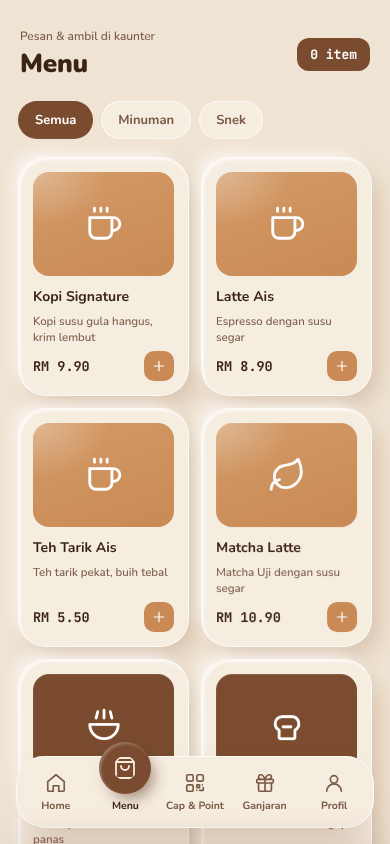
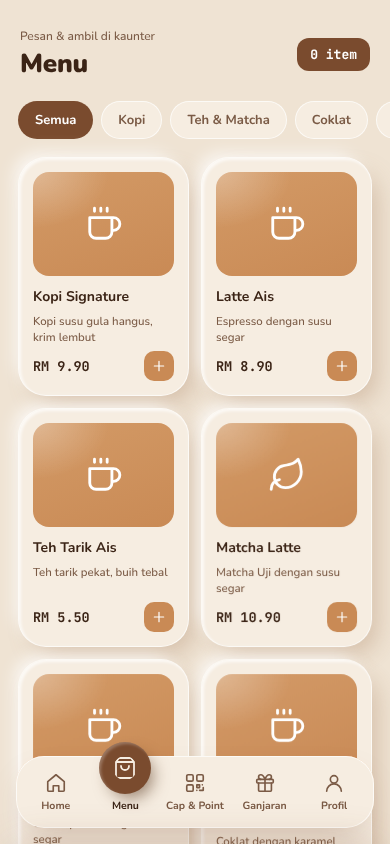
Promo Carousel: category-rail Menu with scroll-spy, search and Pickup/Pre-order toggle
- Promo theme Menu: Pickup | Pre-order segmented toggle, search, outlet row
  with open/closed status and cart badge, sticky vertical category rail with
  icons and active indicator, landscape promo strip, sectioned 2-column grid
  (circle image, small tag, name, price)
- Scroll-spy keeps the active category in sync; tapping a category scrolls
  to its section; search filters all items
- Menu data: Popular section (popular:true), per-item tag, 4 categories and
  9 sample items; PromoBanner.strip() for landscape banners
- CHANGELOG v1.2.1, PANDUAN, gallery image, sw v1.6.1, buyer ZIP v1.2.1

Claude-Session: https://claude.ai/code/session_01C5wWw1jGXc8YxhPN5kL5xc

diff --git a/index.html b/index.html
@@ -691,6 +691,54 @@ a.row{color:inherit;text-decoration:none}
 .pd-ban .sheet-top b{display:none}
 .pd-when{display:inline-flex;gap:6px;align-items:center;font-size:12px;font-weight:700;color:var(--brand);background:var(--surface);padding:6px 10px;border-radius:99px;margin:6px 0 12px}
 .pd-tc{margin:0 0 18px;padding-left:18px;color:var(--ink-2);font-size:12.5px;line-height:1.7}
+/* ---- Menu gaya Promo Carousel ---- */
+.pm{display:none}
+:root[data-theme="promo"] #s-menu{padding:calc(12px + var(--safe-t)) 0 calc(150px + var(--safe-b)) 0}
+:root[data-theme="promo"] #s-menu > .head,:root[data-theme="promo"] #s-menu > .cats,:root[data-theme="promo"] #s-menu > .prod-grid{display:none}
+:root[data-theme="promo"] .pm{display:block}
+.pm-top{display:flex;align-items:center;justify-content:space-between;gap:12px;padding:0 max(16px,env(safe-area-inset-right,0px)) 0 max(16px,env(safe-area-inset-left,0px))}
+.pm-seg{display:inline-flex;padding:4px;border-radius:999px;background:var(--surface)}
+.pm-seg button{height:42px;padding:0 20px;border-radius:999px;font-weight:800;font-size:15px;color:var(--ink-3);transition:background .25s,color .25s}
+.pm-seg button.on{background:var(--brand-deep);color:#fff}
+.pm-search-btn{width:46px;height:46px;border-radius:50%;background:var(--surface);color:var(--brand-deep);display:grid;place-items:center}
+.pm-searchbox{display:flex;align-items:center;gap:8px;margin:12px max(16px,env(safe-area-inset-right,0px)) 0 max(16px,env(safe-area-inset-left,0px));padding:0 6px 0 14px;height:46px;border-radius:14px;background:var(--surface);color:var(--ink-2)}
+.pm-searchbox[hidden],.pm-cart i[hidden]{display:none}
+.pm-searchbox input::-webkit-search-cancel-button{-webkit-appearance:none}
+.pm-searchbox input{flex:1;min-width:0;border:0;background:transparent;font:inherit;font-size:16px;color:var(--ink);outline:none}
+.pm-searchbox button{width:36px;height:36px;border-radius:10px;display:grid;place-items:center}
+.pm-outlet{display:flex;align-items:center;gap:10px;margin:14px 0 0;padding:12px max(16px,env(safe-area-inset-right,0px)) 12px max(16px,env(safe-area-inset-left,0px));background:var(--surface);color:var(--brand-deep)}
+.pm-outlet > div{flex:1;min-width:0}
+.pm-outlet b{display:block;font-size:15px;font-weight:800}
+.pm-outlet span{font-size:11.5px;color:var(--ink-2)}
+.pm-outlet span.open::before{content:"";display:inline-block;width:7px;height:7px;border-radius:50%;background:var(--ok);margin-right:6px;vertical-align:1px}
+.pm-cart{position:relative;width:42px;height:42px;border-radius:12px;background:#fff;display:grid;place-items:center;color:var(--brand-deep)}
+.pm-cart i{position:absolute;right:-5px;top:-5px;min-width:18px;height:18px;padding:0 5px;border-radius:99px;background:var(--brand);color:#fff;font-size:10.5px;font-weight:800;font-style:normal;display:grid;place-items:center}
+.pm-body{display:grid;grid-template-columns:92px minmax(0,1fr);align-items:start}
+.pm-cats{position:sticky;top:-12px;align-self:start;height:calc(100dvh - var(--safe-t) - 80px - var(--safe-b));overflow-y:auto;scrollbar-width:none;background:var(--surface);padding-bottom:40px}
+.pm-cats::-webkit-scrollbar{display:none}
+.pm-cat{position:relative;display:flex;flex-direction:column;align-items:center;gap:6px;width:100%;padding:16px 6px;font-size:11.5px;font-weight:600;color:var(--ink);text-align:center;line-height:1.25;transition:background .2s,color .2s}
+.pm-cat .ico{width:44px;height:44px;border-radius:14px;display:grid;place-items:center;color:var(--ink-2);transition:transform .25s cubic-bezier(.3,1.4,.6,1),color .2s}
+.pm-cat .ico svg{width:26px;height:26px}
+.pm-cat.on{background:var(--bg);color:var(--brand-deep);font-weight:800}
+.pm-cat.on .ico{color:var(--brand);transform:scale(1.08)}
+.pm-cat::before{content:"";position:absolute;left:0;top:14px;bottom:14px;width:4px;border-radius:0 4px 4px 0;background:var(--brand-deep);transform:scaleY(0);transition:transform .3s cubic-bezier(.3,1.4,.6,1)}
+.pm-cat.on::before{transform:scaleY(1)}
+.pm-list{min-width:0;padding:0 max(12px,env(safe-area-inset-right,0px)) 0 12px}
+.pm-strip{display:block;width:calc(100% + 12px);margin:0 0 6px -12px;cursor:pointer}
+.pm-sec{padding-top:18px;scroll-margin-top:0}
+.pm-sec h3{display:flex;align-items:center;gap:10px;margin:0 0 14px 2px;font-size:17px;font-weight:800;color:var(--brand-deep)}
+.pm-sec h3::before{content:"";width:4px;height:22px;border-radius:2px;background:var(--brand-deep)}
+.pm-grid{display:grid;grid-template-columns:1fr 1fr;gap:22px 10px}
+.pm-item{display:flex;flex-direction:column;align-items:center;text-align:center;gap:4px;padding:0;transition:transform .18s}
+.pm-item:active{transform:scale(.96)}
+.pm-pic{position:relative;width:100%;max-width:128px;aspect-ratio:1;border-radius:50%;background:#EEF0F6;display:grid;place-items:center;margin-bottom:8px;overflow:visible;color:var(--brand-deep)}
+.pm-pic svg.art{width:62%;height:auto;margin-top:-14%;filter:drop-shadow(0 8px 8px rgba(0,0,0,.18))}
+.pm-pic > svg.i{width:44%;height:44%}
+.pm-item small{font-size:10.5px;letter-spacing:.06em;color:#B08A5E;font-weight:600}
+.pm-item b{font-size:13.5px;line-height:1.25;color:var(--ink-2);font-weight:800;display:-webkit-box;-webkit-line-clamp:2;-webkit-box-orient:vertical;overflow:hidden;min-height:2.5em}
+.pm-item .pr{font-size:14px;color:var(--ink);font-weight:600}
+.pm-empty{padding:40px 10px;text-align:center;color:var(--ink-3);font-size:13px}
+@media (prefers-reduced-motion:reduce){.pm-cat::before,.pm-cat .ico{transition:none}}
 /* ---- prestasi: tema pejal tidak perlukan kesan kaca ---- */
 :root[data-theme="sage"] .tile,:root[data-theme="grid"] .tile,:root[data-theme="clay"] .tile,:root[data-theme="indigo"] .tile,:root[data-theme="matcha"] .tile,
 :root[data-theme="sage"] .nav,:root[data-theme="grid"] .nav,:root[data-theme="indigo"] .nav,:root[data-theme="matcha"] .nav{backdrop-filter:none;-webkit-backdrop-filter:none}
@@ -876,6 +924,21 @@ a.row{color:inherit;text-decoration:none}
       <header class="head"><div><small>Pesan &amp; ambil di kaunter</small><h1>Menu</h1></div><button class="pill-dark" data-action="openCart" id="m-cartpill">0 item</button></header>
       <div class="cats" id="m-cats"></div>
       <div class="prod-grid" id="m-grid"></div>
+      <!-- Menu gaya Promo Carousel: rel kategori kiri + seksyen 2 lajur -->
+      <div class="pm" id="pm">
+        <div class="pm-top">
+          <div class="pm-seg" role="tablist" aria-label="Cara ambil">
+            <button type="button" id="pmPick" data-pm="pickup" role="tab">Pickup</button><button type="button" id="pmPre" data-pm="pre" role="tab">Pre-order</button>
+          </div>
+          <button type="button" class="pm-search-btn" data-pm="search" aria-label="Cari menu"><svg class="i" data-ic="search"></svg></button>
+        </div>
+        <div class="pm-searchbox" id="pmSearchBox" hidden><svg class="i" data-ic="search"></svg><input id="pmQ" type="search" placeholder="Cari minuman atau snek…" autocomplete="off"><button type="button" data-pm="close" aria-label="Tutup carian"><svg class="i" data-ic="x"></svg></button></div>
+        <div class="pm-outlet"><svg class="i" data-ic="store"></svg><div><b id="pmOutlet">Kafe Demo</b><span id="pmHours">Buka 08:00 – 22:00</span></div><button type="button" class="pm-cart" data-action="openCart" aria-label="Troli"><svg class="i" data-ic="bag"></svg><i id="pmCartN" hidden>0</i></button></div>
+        <div class="pm-body">
+          <nav class="pm-cats" id="pmCats" aria-label="Kategori menu"></nav>
+          <div class="pm-list" id="pmList"></div>
+        </div>
+      </div>
     </section>
 
     <!-- ========== 02 CAP & POINT ========== -->
@@ -1037,6 +1100,10 @@ const IC = {
   back:'<path d="m15 18-6-6 6-6"/>',
   clock:'<circle cx="12" cy="12" r="9"/><path d="M12 7v5l3 2"/>',
   upload:'<path d="M12 15V3M7 8l5-5 5 5M5 21h14"/>',
+  search:'<circle cx="11" cy="11" r="7"/><path d="m21 21-4.3-4.3"/>',
+  store:'<path d="M3 9l1.5-5h15L21 9M3 9v11h18V9M3 9c0 1.7 1.3 3 3 3s3-1.3 3-3c0 1.7 1.3 3 3 3s3-1.3 3-3c0 1.7 1.3 3 3 3s3-1.3 3-3M9 20v-5h6v5"/>',
+  star:'<path d="m12 3 2.7 5.6 6.1.9-4.4 4.3 1 6.1L12 17l-5.5 2.9 1-6.1-4.4-4.3 6.1-.9z"/>',
+  choc:'<rect x="5" y="3" width="14" height="18" rx="2"/><path d="M5 9h14M5 15h14M12 3v18"/>',
   crown:'<path d="m2 7 5 5 5-8 5 8 5-5-2 12H4z"/>',
   palette:'<circle cx="13.5" cy="6.5" r="1.2"/><circle cx="17.5" cy="10.5" r="1.2"/><circle cx="8.5" cy="7.5" r="1.2"/><circle cx="6.5" cy="12.5" r="1.2"/><path d="M12 2a10 10 0 0 0 0 20c1.1 0 2-.9 2-2 0-.5-.2-1-.5-1.3-.3-.4-.5-.8-.5-1.3 0-1.1.9-2 2-2h2.4A5.6 5.6 0 0 0 22 9.8C22 5.5 17.5 2 12 2z"/>',
   bag:'<path d="M6 2 3 6v14a2 2 0 0 0 2 2h14a2 2 0 0 0 2-2V6l-3-4zM3 6h18M16 10a4 4 0 0 1-8 0"/>',
@@ -1405,7 +1472,68 @@ function picHTML(p,i=0){
   if(THEME.art==="drink" && isDrink) return drinkArt(Array.isArray(p.art)?p.art:ART_DEFAULT[i%ART_DEFAULT.length]);
   return icon(p.icon||"cup");
 }
+/* =========================================================
+   MENU GAYA PROMO CAROUSEL — rel kategori kiri, seksyen 2 lajur,
+   kategori aktif ikut skrol, carian, togol Pickup / Pre-order
+   ========================================================= */
+const CAT_ICON={"Popular":"star","Kopi":"cup","Teh & Matcha":"leaf","Coklat":"choc","Snek":"bread","Minuman":"cup","Makanan":"bowl"};
+let pmQuery="", pmSpyLock=0;
+function pmSections(){
+  const items=activeMenu(), out=[];
+  if(pmQuery){
+    const q=pmQuery.toLowerCase(), hit=items.filter(p=>(p.name+" "+(p.desc||"")+" "+(p.tag||"")+" "+(p.cat||"")).toLowerCase().includes(q));
+    return [{id:"cari",name:`Hasil carian "${pmQuery}"`,items:hit}];
+  }
+  const pop=items.filter(p=>p.popular); if(pop.length) out.push({id:"popular",name:"Popular",items:pop});
+  [...new Set(items.map(p=>p.cat||"Lain-lain"))].forEach((c,i)=>out.push({id:"c"+i,name:c,items:items.filter(p=>(p.cat||"Lain-lain")===c)}));
+  return out;
+}
+function renderMenuPromo(){
+  if(window.PromoBanner) PromoBanner.ensureCSS();
+  const secs=pmSections();
+  // togol pickup / pre-order
+  const pre=CO.mode==="slot"&&CO.day>0;
+  $("#pmPick").classList.toggle("on",!pre); $("#pmPre").classList.toggle("on",pre);
+  $("#pmPick").setAttribute("aria-selected",!pre); $("#pmPre").setAttribute("aria-selected",pre);
+  $("#pmOutlet").textContent=CONFIG.brand;
+  const open=asapOpen(); const h=$("#pmHours"); h.className=open?"open":""; h.textContent=`${open?"Dibuka":"Tutup"} · ${SHOP.open||"08:00"} – ${SHOP.close||"22:00"}${pre?" · Pre-order":""}`;
+  const n=$("#pmCartN"); n.hidden=!cart.length; n.textContent=cart.length;
+  // rel kategori
+  $("#pmCats").innerHTML=secs.map((s,i)=>`<button type="button" class="pm-cat ${i===0?"on":""}" data-pmcat="${s.id}"><span class="ico">${icon(CAT_ICON[s.name]||"cup")}</span>${esc(s.name)}</button>`).join("");
+  // banner promosi melintang (promosi aktif pertama)
+  const promo=(typeof visiblePromos==="function"?visiblePromos():[])[0];
+  const strip = promo && window.PromoBanner && !pmQuery ? `<div class="pm-strip" data-pmpromo="0" role="button" aria-label="${esc(promo.title)}">${PromoBanner.strip(promo,{brand:CONFIG.brand})}</div>` : "";
+  let k=0;
+  $("#pmList").innerHTML = strip + secs.map(s=>`<section class="pm-sec" id="pm-${s.id}"><h3>${esc(s.name)}</h3>
+    ${s.items.length?`<div class="pm-grid">${s.items.map(p=>`<button type="button" class="pm-item" data-prod="${p.id}">
+      <span class="pm-pic">${picHTMLAny(p,k++)}</span><small>${esc(p.tag||p.cat||"")}</small><b>${esc(p.name)}</b><span class="pr">${rm2(p.price)}</span></button>`).join("")}</div>`
+      :`<div class="pm-empty">Tiada item sepadan.</div>`}</section>`).join("");
+}
+function picHTMLAny(p,i){ const isDrink=p.art||(p.cat||"")!=="Snek"; return isDrink && p.icon!=="bread" && p.icon!=="bowl" ? drinkArt(Array.isArray(p.art)?p.art:ART_DEFAULT[i%ART_DEFAULT.length]) : icon(p.icon||"cup"); }
+function pmSetCat(id){ $$("#pmCats .pm-cat").forEach(b=>b.classList.toggle("on",b.dataset.pmcat===id)); const on=$(`#pmCats .pm-cat[data-pmcat="${id}"]`); on?.scrollIntoView({block:"nearest"}); }
+$("#s-menu").addEventListener("scroll",()=>{
+  if(THEME.id!=="promo"||Date.now()<pmSpyLock) return;
+  const sc=$("#s-menu"), top=sc.getBoundingClientRect().top+60; let cur=null;
+  $$("#pmList .pm-sec").forEach(s=>{ if(s.getBoundingClientRect().top<=top) cur=s.id.slice(3); });
+  if(!cur){ const f=$("#pmList .pm-sec"); cur=f&&f.id.slice(3); }
+  if(cur) pmSetCat(cur);
+},{passive:true});
+$("#pm").addEventListener("click",e=>{
+  const c=e.target.closest("[data-pmcat]");
+  if(c){ const sec=$(`#pm-${c.dataset.pmcat}`), sc=$("#s-menu"); pmSetCat(c.dataset.pmcat); pmSpyLock=Date.now()+700;
+    if(sec) sc.scrollTo({top:sc.scrollTop+sec.getBoundingClientRect().top-sc.getBoundingClientRect().top-6,behavior:reduceMotion?"auto":"smooth"}); return; }
+  if(e.target.closest("[data-pmpromo]")){ openPromo(0); return; }
+  const b=e.target.closest("[data-pm]"); if(!b) return;
+  const a=b.dataset.pm;
+  if(a==="pickup"){ CO.mode=asapOpen()?"asap":"slot"; CO.day=0; CO.ts=null; renderMenuPromo(); toast("Pickup hari ini"); }
+  if(a==="pre"){ if(!SHOP.preorder){ toast("Pre-order tidak dibuka oleh kedai"); return; } const d=pickupDays(); CO.mode="slot"; CO.day=d.includes(1)?1:(d[0]??0); CO.ts=null; renderMenuPromo(); toast("Pre-order: pilih waktu ambil semasa checkout"); }
+  if(a==="search"){ const bx=$("#pmSearchBox"); bx.hidden=!bx.hidden; if(!bx.hidden) setTimeout(()=>$("#pmQ").focus(),50); else { pmQuery=""; $("#pmQ").value=""; renderMenuPromo(); } }
+  if(a==="close"){ $("#pmSearchBox").hidden=true; pmQuery=""; $("#pmQ").value=""; renderMenuPromo(); }
+});
+$("#pmQ").addEventListener("input",e=>{ pmQuery=e.target.value.trim(); renderMenuPromo(); $("#s-menu").scrollTop=0; });
+
 function renderMenu(){
+  if(THEME.id==="promo"){ renderMenuPromo(); return; }
   const items=activeMenu(), cats=["Semua",...new Set(items.map(p=>p.cat||"Lain-lain"))];
   if(!cats.includes(menuCat)) menuCat="Semua";
   $("#m-cats").innerHTML=cats.map(c=>`<button class="cat ${c===menuCat?"on":""}" data-cat="${esc(c)}">${esc(c)}</button>`).join("");
@@ -1490,6 +1618,7 @@ function renderCartBar(){
   $("#cb-n").textContent=n; $("#cb-total").textContent=rm2(cartTotal());
   $("#cb-earn").textContent=`+${Math.min(n,CONFIG.stampTarget)} cap · +${fmt(n*CONFIG.pointsOnline)} point`;
   $("#m-cartpill").textContent=`${n} item`;
+  const pn=$("#pmCartN"); if(pn){ pn.hidden=!n; pn.textContent=n; }
   void onMenu;
 }
 /* Baris item dengan pecahan harga: harga item + setiap add-on berasingan */

diff --git a/menu.js b/menu.js
@@ -8,35 +8,48 @@
      type:"multi"  → pilih banyak dengan kuantiti.
                      Setiap pilihan ada `max` = had kuantiti untuk SATU item.
                      Kumpulan ada `max` = had jumlah semua pilihan (0 = tiada had).
-   art:[atas, bawah, hiasan] (pilihan) = warna lukisan minuman untuk tema "Sage Curve".
+   art:[atas, bawah, hiasan] (pilihan) = warna lukisan minuman untuk tema "Sage Curve" & "Promo Carousel".
+   tag (pilihan)         = label kecil di atas nama item (Menu gaya Promo Carousel).
+   popular:true          = dipapar dalam kategori "Popular" (Menu gaya Promo Carousel).
      Nak lebih dari had? Pelanggan tambah item yang sama ke troli sekali lagi.
    ========================================================= */
 window.SHOP_MENU = [
-  { id:"sig", name:"Kopi Signature", desc:"Kopi susu gula hangus, krim lembut", price:9.90, cat:"Minuman", icon:"cup", art:["#E6BE8A","#5C3B22","#8A5428"], active:true, groups:[
+  { id:"sig", name:"Kopi Signature", desc:"Kopi susu gula hangus, krim lembut", price:9.90, cat:"Kopi", tag:"KOPI SUSU", popular:true, icon:"cup", art:["#E6BE8A","#5C3B22","#8A5428"], active:true, groups:[
     { id:"size", name:"Saiz", type:"single", required:true, options:[{id:"r",name:"Regular",price:0,active:true},{id:"l",name:"Large",price:2,active:true}] },
     { id:"ice",  name:"Ais",  type:"single", required:true, options:[{id:"n",name:"Ais normal",price:0,active:true},{id:"k",name:"Kurang ais",price:0,active:true},{id:"t",name:"Tiada ais",price:0,active:true}] },
     { id:"top",  name:"Topping", type:"multi", max:3, options:[{id:"boba",name:"Boba",price:1.5,max:2,active:true},{id:"cheese",name:"Cheese foam",price:2,max:1,active:true},{id:"jelly",name:"Jelly kelapa",price:1,max:2,active:true}] },
   ]},
-  { id:"latte", name:"Latte Ais", desc:"Espresso dengan susu segar", price:8.90, cat:"Minuman", icon:"cup", art:["#EBD3B4","#A8754A","#7A4B2E"], active:true, groups:[
+  { id:"latte", name:"Latte Ais", desc:"Espresso dengan susu segar", price:8.90, cat:"Kopi", tag:"ESPRESSO", icon:"cup", art:["#EBD3B4","#A8754A","#7A4B2E"], active:true, groups:[
     { id:"size", name:"Saiz", type:"single", required:true, options:[{id:"r",name:"Regular",price:0,active:true},{id:"l",name:"Large",price:2,active:true}] },
     { id:"sugar",name:"Gula", type:"single", required:true, options:[{id:"n",name:"Gula normal",price:0,active:true},{id:"k",name:"Kurang manis",price:0,active:true},{id:"t",name:"Tanpa gula",price:0,active:true}] },
     { id:"xtra", name:"Tambahan", type:"multi", max:0, options:[{id:"shot",name:"Extra shot",price:2,max:2,active:true},{id:"van",name:"Sirap vanila",price:1,max:1,active:true},{id:"oat",name:"Tukar susu oat",price:2.5,max:1,active:true}] },
   ]},
-  { id:"teh", name:"Teh Tarik Ais", desc:"Teh tarik pekat, buih tebal", price:5.50, cat:"Minuman", icon:"cup", art:["#E2B987","#9A5B2A","#7A4220"], active:true, groups:[
+  { id:"teh", name:"Teh Tarik Ais", desc:"Teh tarik pekat, buih tebal", price:5.50, cat:"Teh & Matcha", tag:"TEH TARIK", icon:"cup", art:["#E2B987","#9A5B2A","#7A4220"], active:true, groups:[
     { id:"sugar",name:"Gula", type:"single", required:true, options:[{id:"n",name:"Gula normal",price:0,active:true},{id:"k",name:"Kurang manis",price:0,active:true}] },
   ]},
-  { id:"matcha", name:"Matcha Latte", desc:"Matcha Uji dengan susu segar", price:10.90, cat:"Minuman", icon:"leaf", art:["#BFD39B","#5E7F3E","#4E6B33"], active:true, groups:[
+  { id:"matcha", name:"Matcha Latte", desc:"Matcha Uji dengan susu segar", price:10.90, cat:"Teh & Matcha", tag:"MATCHA UJI", popular:true, icon:"leaf", art:["#BFD39B","#5E7F3E","#4E6B33"], active:true, groups:[
     { id:"size", name:"Saiz", type:"single", required:true, options:[{id:"r",name:"Regular",price:0,active:true},{id:"l",name:"Large",price:2,active:true}] },
     { id:"top",  name:"Topping", type:"multi", max:2, options:[{id:"boba",name:"Boba",price:1.5,max:2,active:true},{id:"cream",name:"Krim putar",price:1.5,max:1,active:true}] },
   ]},
-  { id:"oden", name:"Oden Set", desc:"Cucuk pilihan dalam kuah panas", price:8.00, cat:"Snek", icon:"bowl", active:true, groups:[
+  { id:"coklat", name:"Coklat Ais", desc:"Coklat pekat dengan susu segar", price:9.50, cat:"Coklat", tag:"COKLAT KLASIK", icon:"cup", art:["#C8A07E","#4A2A18","#5A3420"], active:true, groups:[
+    { id:"size", name:"Saiz", type:"single", required:true, options:[{id:"r",name:"Regular",price:0,active:true},{id:"l",name:"Large",price:2,active:true}] },
+    { id:"sugar",name:"Gula", type:"single", required:true, options:[{id:"n",name:"Gula normal",price:0,active:true},{id:"k",name:"Kurang manis",price:0,active:true}] },
+  ]},
+  { id:"karamel", name:"Karamel Masin Coklat", desc:"Coklat dengan karamel masin", price:10.90, cat:"Coklat", tag:"MANIS MASIN", icon:"cup", art:["#E3B98C","#7A4520","#B0662A"], active:true, groups:[
+    { id:"size", name:"Saiz", type:"single", required:true, options:[{id:"r",name:"Regular",price:0,active:true},{id:"l",name:"Large",price:2,active:true}] },
+    { id:"top",  name:"Topping", type:"multi", max:2, options:[{id:"cream",name:"Krim putar",price:1.5,max:1,active:true},{id:"caramel",name:"Sos karamel",price:1,max:2,active:true}] },
+  ]},
+  { id:"oden", name:"Oden Set", desc:"Cucuk pilihan dalam kuah panas", price:8.00, cat:"Snek", tag:"SNEK PANAS", popular:true, icon:"bowl", active:true, groups:[
     { id:"oden", name:"Pilihan Oden", type:"multi", max:6, options:[
       {id:"fb",name:"Fish ball",price:1,max:3,active:true},{id:"fc",name:"Fucuk",price:1.5,max:1,active:true},
       {id:"od",name:"Oden fish cake",price:2,max:1,active:true},{id:"ss",name:"Sosej",price:1.2,max:2,active:true},
       {id:"tp",name:"Telur puyuh",price:.5,max:4,active:true}] },
     { id:"kuah", name:"Kuah", type:"single", required:true, options:[{id:"o",name:"Kuah original",price:0,active:true},{id:"t",name:"Kuah tom yam",price:1,active:true},{id:"p",name:"Kuah pedas",price:.5,active:true}] },
   ]},
-  { id:"roti", name:"Roti Bakar", desc:"Roti tebal dibakar rangup", price:4.50, cat:"Snek", icon:"bread", active:true, groups:[
+  { id:"croissant", name:"Croissant Mentega", desc:"Pastri rangup dibakar setiap pagi", price:6.90, cat:"Snek", tag:"PASTRI", icon:"bread", active:true, groups:[
+    { id:"inti", name:"Hidangan", type:"single", required:true, options:[{id:"b",name:"Biasa",price:0,active:true},{id:"h",name:"Panaskan",price:0,active:true},{id:"j",name:"Dengan jem",price:1,active:true}] },
+  ]},
+  { id:"roti", name:"Roti Bakar", desc:"Roti tebal dibakar rangup", price:4.50, cat:"Snek", tag:"SARAPAN", icon:"bread", active:true, groups:[
     { id:"inti", name:"Inti", type:"single", required:true, options:[{id:"k",name:"Kaya",price:0,active:true},{id:"m",name:"Mentega kaya",price:.5,active:true},{id:"c",name:"Coklat",price:1,active:true}] },
   ]},
 ];

diff --git a/promo.js b/promo.js
@@ -76,6 +76,15 @@ window.PromoBanner = (function(){
     const st = (STYLES[p.style] || STYLES.sunset)(p);
     return `<div class="pb"><div class="pb-art"><div class="pb-zoom" style="background:${st.bg}"></div>${st.art}</div><div class="pb-text">${st.text}</div>${cta}${note}</div>`;
   }
+  /* strip(promo) → banner melintang (atas senarai Menu) */
+  function strip(p, o = {}){
+    p = Object.assign({}, p, { _l: ((o.brand || "K")[0] || "k").toLowerCase() });
+    if (p.kind === "image" && p.img) return `<div class="pbs"><img class="pbs-img" src="${p.img}" alt="${esc(p.title)}"></div>`;
+    const st = (STYLES[p.style] || STYLES.sunset)(p);
+    return `<div class="pbs"><div class="pbs-bg" style="background:${st.bg}"></div>
+      <div class="pbs-t">${p.tag?`<i>${esc(p.tag)}</i>`:""}<b>${esc(p.h1)} <span>${esc(p.h2)}</span></b><small>${esc(p.cta || "Lihat lanjut")} →</small></div>
+      <div class="pbs-art">${cup(p.cups && p.cups[0], 64, 118, p._l)}</div>${p.badge?`<div class="pbs-badge">${esc(p.badge)}</div>`:""}</div>`;
+  }
   /* CSS banner (sekali sahaja) */
   const CSS = `.pb{position:relative;aspect-ratio:4/5;width:100%;overflow:hidden;border-radius:inherit;color:#fff;font-family:"Plus Jakarta Sans",system-ui,sans-serif;}
 .pb-art{position:absolute;inset:0;transform:translateX(calc(var(--p,0) * -26px))}
@@ -91,6 +100,16 @@ window.PromoBanner = (function(){
 .pb-stk{position:absolute;border:5px solid #fff;display:grid;place-items:center;font-family:Fredoka,sans-serif;font-weight:700;box-shadow:0 10px 18px -8px rgba(0,0,0,.35)}
 .pb-cta{position:absolute;left:50%;bottom:4%;transform:translateX(-50%);z-index:3;padding:9px 18px;border-radius:99px;background:#fff;color:#15192A;font-size:12px;font-weight:800;white-space:nowrap;box-shadow:0 6px 14px -6px rgba(0,0,0,.35)}
 .pb-note{position:absolute;right:4%;bottom:1.6%;font-size:8px;opacity:.75;z-index:3}
+.pbs{position:relative;height:118px;overflow:hidden;color:#fff;font-family:"Plus Jakarta Sans",system-ui,sans-serif}
+.pbs-bg{position:absolute;inset:0}
+.pbs-img{width:100%;height:100%;object-fit:cover}
+.pbs-t{position:absolute;left:16px;top:50%;transform:translateY(-50%);max-width:62%;z-index:2}
+.pbs-t i{display:block;font-style:normal;font-size:10px;font-weight:800;letter-spacing:.12em;opacity:.9;margin-bottom:3px}
+.pbs-t b{display:block;font-family:"Archivo Black","Plus Jakarta Sans",sans-serif;font-size:22px;line-height:.95;text-shadow:0 3px 0 rgba(0,0,0,.1)}
+.pbs-t b span{color:#FDE68A}
+.pbs-t small{display:inline-block;margin-top:8px;font-size:10.5px;font-weight:800;background:#fff;color:#15192A;padding:4px 10px;border-radius:99px}
+.pbs-art{position:absolute;right:14px;top:4px;z-index:1}
+.pbs-badge{position:absolute;right:70px;top:10px;width:44px;height:44px;border-radius:50%;background:#F5B83D;color:#3B2410;display:grid;place-items:center;font-family:"Archivo Black",sans-serif;font-size:12px;transform:rotate(12deg);z-index:2}
 @media (prefers-reduced-motion:reduce){.pb-art{transform:none!important}}`;
   function ensureCSS(){ if (!document.getElementById("pb-css")){ const s = document.createElement("style"); s.id = "pb-css"; s.textContent = CSS; document.head.appendChild(s); } }
   /* Status ikut tarikh */
@@ -100,5 +119,5 @@ window.PromoBanner = (function(){
     if (p.end && today > p.end) return "ended";
     return "live";
   }
-  return { html, ensureCSS, status, styles: Object.keys(STYLES) };
+  return { html, strip, ensureCSS, status, styles: Object.keys(STYLES) };
 })();

diff --git a/sw.js b/sw.js
@@ -1,6 +1,6 @@
 /* Service worker — cache app shell supaya boleh dibuka luar talian.
    Naikkan VERSION setiap kali anda kemas kini index.html. */
-const VERSION = "kafe-v1.6.0";
+const VERSION = "kafe-v1.6.1";
 const SHELL = ["./", "./index.html", "./admin.html", "./menu.js", "./promo.js", "./manifest.webmanifest",
   "./icons/icon-192.png", "./icons/icon-512.png", "./icons/apple-touch-icon.png"];
 

diff --git a/CHANGELOG.md b/CHANGELOG.md
@@ -1,5 +1,17 @@
 # Nota Versi
 
+## v1.2.1 — Menu gaya Promo Carousel
+- Skrin Menu dalam reka bentuk Promo Carousel direka semula:
+  - togol **Pickup | Pre-order** dan butang carian di atas
+  - baris kedai dengan status buka/tutup dan lencana troli
+  - **rel kategori menegak di kiri** (ikon + label, penanda aktif)
+  - banner promosi melintang
+  - seksyen dengan tajuk bergaris, dan grid 2 lajur (gambar dalam bulatan, label kecil, nama, harga)
+- Kategori aktif bertukar sendiri bila skrol, dan ketik kategori meluncur ke seksyennya.
+- Carian menapis semua item.
+- Kategori **Popular** (item bertanda `popular:true`) dan label `tag` setiap item dalam `menu.js`.
+- Menu contoh kini 4 kategori (Kopi, Teh & Matcha, Coklat, Snek) dan 9 item.
+
 ## v1.2.0 — Template spesial: Promo Carousel
 - Reka bentuk ke-10 bertanda **★ SPESIAL**. Home gaya app kedai kopi:
   - cip status (Point, Kad cap, Tahap)

diff --git a/PANDUAN.md b/PANDUAN.md
@@ -105,6 +105,7 @@ Admin juga boleh ubah menu, ganjaran dan tetapan dari dashboard tanpa sentuh kod
 - Setiap promosi boleh guna **reka banner terbina** (4 gaya: Sunset, Ocean, Garden, Candy, dengan teks anda sendiri) atau **gambar sendiri** (nisbah 4:5, cth. 1080×1350).
 - Tetapkan **tarikh mula/tamat** (banner muncul dan hilang sendiri), **sasaran** (semua ahli / Gold & Platinum / Platinum), dan **pautan** (item menu, skrin Ganjaran atau tiada).
 - Promosi asal untuk kedai baharu ada dalam `promo.js` (`SHOP_PROMOS`).
+- Skrin **Menu** dalam reka bentuk ini guna rel kategori di kiri. Tambah `tag:"LABEL KECIL"` dan `popular:true` pada item dalam `menu.js` untuk label kecil dan kategori Popular.
 - Dalam versi demo, gambar banner disimpan dalam pelayar (ruang terhad beberapa MB). Untuk video MP4 atau banyak gambar, guna Firebase Storage.
 
 ## 7. Admin & keselamatan

diff --git a/jualan/gumroad-listing.md b/jualan/gumroad-listing.md
@@ -113,7 +113,7 @@ Dalam versi demo, dalam pelayar peranti. Tiada data dihantar ke mana-mana pelaya
 1. Gumroad → **Products → New product** → pilih **Digital product**. Masukkan nama dan harga.
 2. **Cover**: muat naik `01-cover.jpg`, kemudian tambah 03–07 sebagai gambar tambahan. **Thumbnail**: `02-thumbnail.jpg`.
 3. **Description**: tampal bahagian *Penerangan* dan *FAQ* di atas.
-4. **Content**: muat naik fail `template-loyalti-kafe-v1.2.0.zip`.
+4. **Content**: muat naik fail `template-loyalti-kafe-v1.2.1.zip`.
 5. Isi bahagian *Summary* dan tag, kemudian **Publish**.
 
 ## Nota tentang demo langsung
